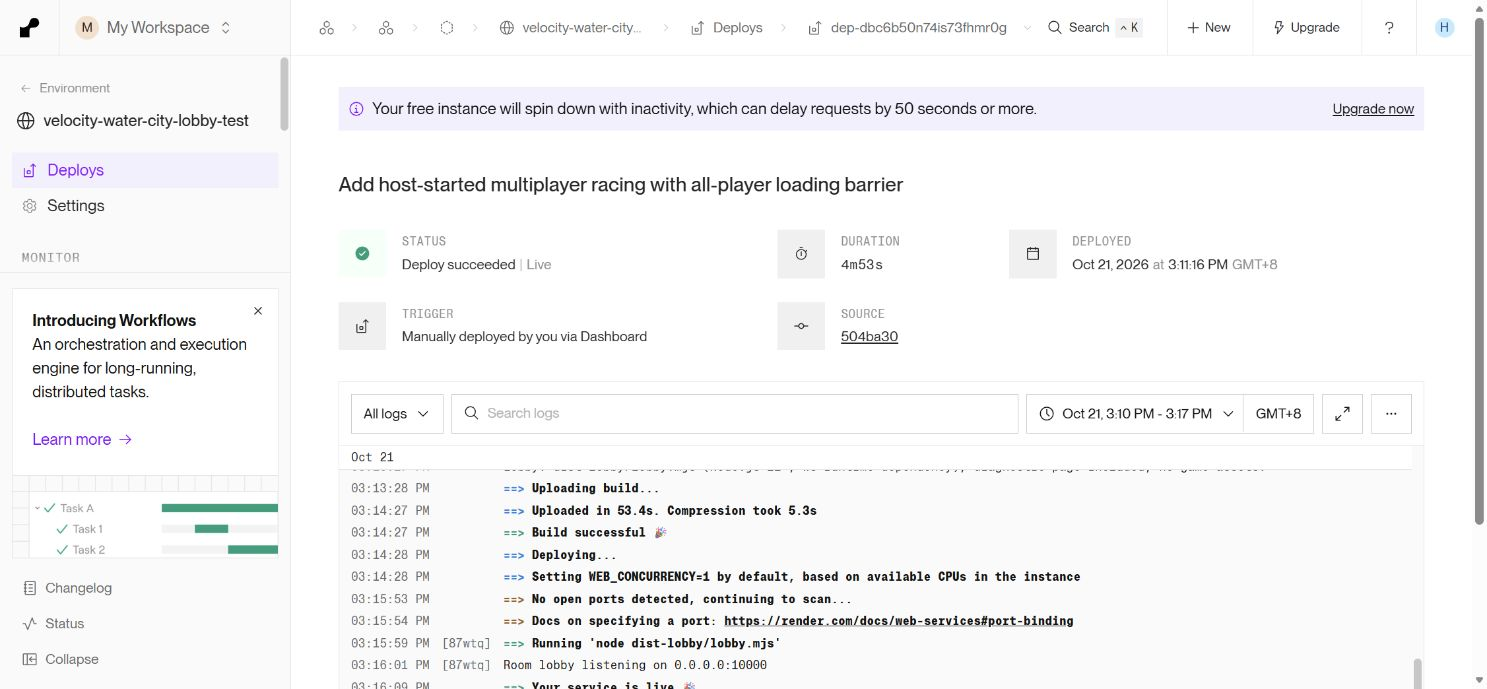
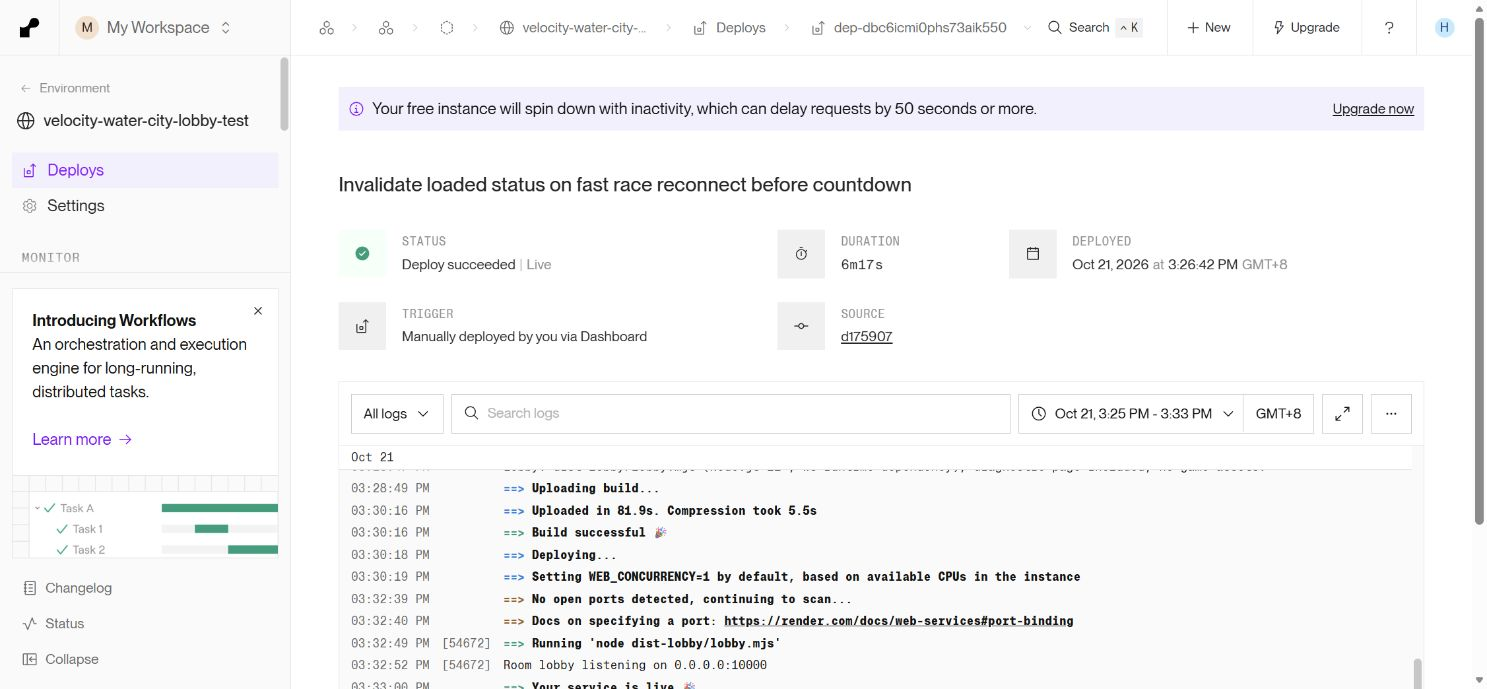
Finalize online loading display and verified refresh barrier deployment

diff --git a/src/ui/LoadingScreen.ts b/src/ui/LoadingScreen.ts
@@ -5,7 +5,7 @@ export class LoadingScreen {
  private panel:HTMLElement;private stage:HTMLElement;private fill:HTMLElement;private label:HTMLElement;
  constructor(root:HTMLElement,onHome?:()=>void){
   this.panel=document.createElement('section');this.panel.className='boot-screen';this.panel.setAttribute('aria-label','游戏加载');
-  this.panel.innerHTML=`<div class="boot-art" aria-hidden="true"></div><div class="boot-card"><small>AURORA RACEWAY / SYSTEM START</small><h1>极速水城<span>未来竞速</span></h1><p class="boot-english">VELOCITY / WATER CITY</p><div class="boot-stage" aria-live="polite">初始化竞速系统</div><div class="boot-track" role="progressbar" aria-label="已完成的启动任务" aria-valuemin="0" aria-valuemax="100"><i></i></div><div class="boot-progress">0% · 0 / 9 项任务</div><p class="boot-tip">正在准备完整城市与五名选手。首次启动需要解码高质量资源。<br>WASD 驾驶 · Shift 氮气 · 空格 特技</p><button type="button" hidden>重新加载资源</button></div>`;
+  this.panel.innerHTML=`<div class="boot-art" aria-hidden="true"></div><div class="boot-card"><small>AURORA RACEWAY / SYSTEM START</small><h1>极速水城<span>未来竞速</span></h1><p class="boot-english">VELOCITY / WATER CITY</p><div class="boot-stage" aria-live="polite">初始化竞速系统</div><div class="boot-track" role="progressbar" aria-label="已完成的启动任务" aria-valuemin="0" aria-valuemax="100"><i></i></div><div class="boot-progress">0% · 0 / 9 项任务</div><p class="boot-tip">正在准备完整城市与参赛选手。首次启动需要解码高质量资源。<br>WASD 驾驶 · Shift 氮气 · 空格 特技</p><button type="button" hidden>重新加载资源</button></div>`;
   root.append(this.panel);this.stage=this.panel.querySelector('.boot-stage')!;this.fill=this.panel.querySelector('.boot-track i')!;this.label=this.panel.querySelector('.boot-progress')!;
   this.panel.querySelector('button')!.onclick=()=>location.reload();
   if(onHome){const back=document.createElement('button');back.textContent='返回首页';back.type='button';back.onclick=onHome;this.panel.querySelector('.boot-card')!.append(back);}

diff --git a/src/core/Game.ts b/src/core/Game.ts
@@ -152,7 +152,7 @@ export class Game {
     if(!this.low){this.heroLighting.update(this.renderer,this.scene,this.craft.visual);this.aiCraft.forEach((c,i)=>this.aiLighting[i].update(this.renderer,this.scene,c.visual));}
     await this.renderer.compileAsync(this.scene,this.camera.camera);await yieldToBrowser();this.renderer.render(this.scene,this.camera.camera);
     this.loading.begin('scene');if(this.disposed)return;this.camera.obstacles=CameraObstacles.from(this.track,this.citySample.density.sites,this.scene);this.restart();this.initialized=true;this.previous=0;this.accumulator=0;
-    this.hud.update(this.craft.model,this.race,false,this.nitro,this.flight,this.tricks);this.loading.complete('scene');this.loading.finish();
+    this.hud.update(this.craft.model,this.race,false,this.nitro,this.flight,this.tricks,this.session instanceof NetworkRaceSession?this.session.message:undefined);this.loading.complete('scene');this.loading.finish();
   }
   private restart = () => {
     this.recordRun();this.runStarted=this.runRecorded=false;this.input.clear();this.session.restart();
